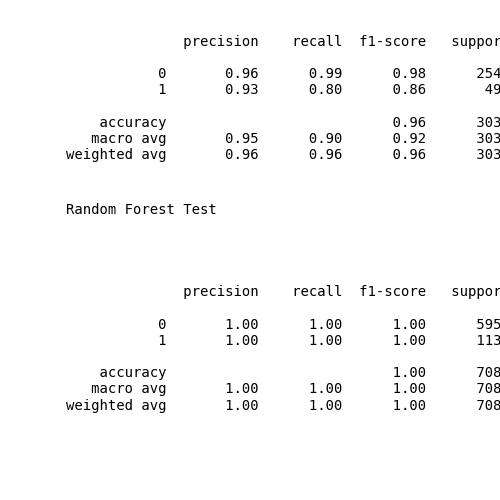
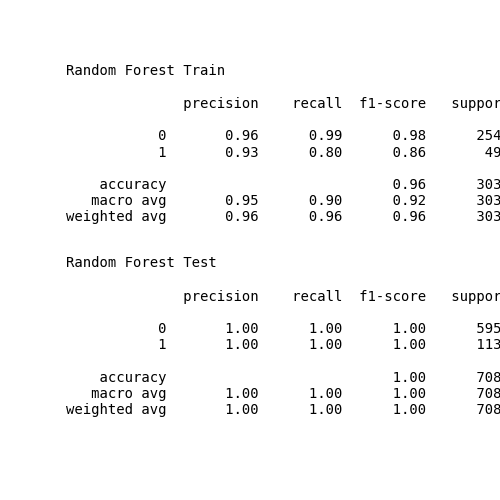
churn_library.py formatting updated

diff --git a/churn_library.py b/churn_library.py
@@ -23,7 +23,6 @@ from sklearn.model_selection import train_test_split
 from sklearn.ensemble import RandomForestClassifier
 from sklearn.linear_model import LogisticRegression
 from sklearn.model_selection import GridSearchCV
-#from sklearn.metrics import plot_roc_curve, classification_report
 from sklearn.metrics import RocCurveDisplay, classification_report
 import sklearn.base
 
@@ -39,13 +38,22 @@ def setup_logging(
     logger = logging.getLogger()
     logger.setLevel(logging.INFO)
 
-    # Adding a file handler
+    # Create formatter
+    formatter = logging.Formatter(format)
+
+    # Create and configure file handler
     file_handler = logging.FileHandler(filename)
     file_handler.setLevel(logging.INFO)
-    file_handler.setFormatter(logging.Formatter(format))
+    file_handler.setFormatter(formatter)
+
+    # Create and configure stream handler (prints to console)
+    stream_handler = logging.StreamHandler()
+    stream_handler.setLevel(logging.INFO)
+    stream_handler.setFormatter(formatter)
 
     # Attach the handler to the logger
     logger.addHandler(file_handler)
+    logger.addHandler(stream_handler)
 
     return logger
 
@@ -388,18 +396,19 @@ def classification_report_image(y_train: np.ndarray,
 
     filename_rf = 'rfc_classification_report.png'
     save_path_rf = os.path.join(output_dir, filename_rf)
-    
-    logger.info("Generating and saving classification report for Random Forest Classifier.")
+        
 
     # Generate classification report
+    logger.info("Generating and saving classification report for Random Forest Classifier.")
+
     plt.rc('figure', figsize=(5, 5))
     plt.text(0.01, 1.25, str('Random Forest Train'), {'fontsize': 10}, fontproperties = 'monospace')
     plt.text(0.01, 0.05, str(classification_report(y_train, y_train_preds_rf)), {'fontsize': 10}, fontproperties = 'monospace')
     plt.text(0.01, 0.6, str('Random Forest Test'), {'fontsize': 10}, fontproperties = 'monospace')
     plt.text(0.01, 0.7, str(classification_report(y_test, y_test_preds_rf)), {'fontsize': 10}, fontproperties = 'monospace')    
     plt.axis('off')    
-    plt.xlim(0, 1) #
-    plt.ylim(0, 1.3) #
+    plt.xlim(0, 1)
+    plt.ylim(0, 1.3)
 
     plt.savefig(save_path_rf)
     plt.close()
@@ -411,16 +420,18 @@ def classification_report_image(y_train: np.ndarray,
     filename_lr = 'lc_classification_report.png'
     save_path_lr = os.path.join(output_dir, filename_lr)
 
-    # Generate classification report
+    # Generate and save classification report as an image    
+    logger.info("Saving classification report for Logistic Regression Classifier.")
+    
     plt.rc('figure', figsize=(5, 5))
     plt.text(0.01, 1.25, str('Logistic Regression Train'), {'fontsize': 10}, fontproperties = 'monospace')
     plt.text(0.01, 0.05, str(classification_report(y_train, y_train_preds_lr)), {'fontsize': 10}, fontproperties = 'monospace')
     plt.text(0.01, 0.6, str('Logistic Regression Test'), {'fontsize': 10}, fontproperties = 'monospace')
     plt.text(0.01, 0.7, str(classification_report(y_test, y_test_preds_lr)), {'fontsize': 10}, fontproperties = 'monospace')
     plt.axis('off')
-
-    # Save the classification report as an image
-    logger.info("Saving classification report for Logistic Regression Classifier.")
+    plt.xlim(0, 1)
+    plt.ylim(0, 1.3)
+    
     plt.savefig(save_path_lr)
     plt.close()
     
@@ -507,8 +518,10 @@ def plot_roc_curve(model1,
                 plt.close()
                 logger.info(f"ROC curve for {model1_name} saved in {output_path}.")
         else:                
+                model1_name = model1.__class__.__name__.lower()
                 model2_name = model2.__class__.__name__.lower()
-                logger.info(f"Plotting ROC curves of models: {model1} and {model2}")
+
+                logger.info(f"Plotting ROC curves of models: {model1_name} and {model2_name}")
                 filename = f'{model1_name}_{model2_name}_roc_curve.png'
                 output_path = os.path.join(output_dir, filename)
 
